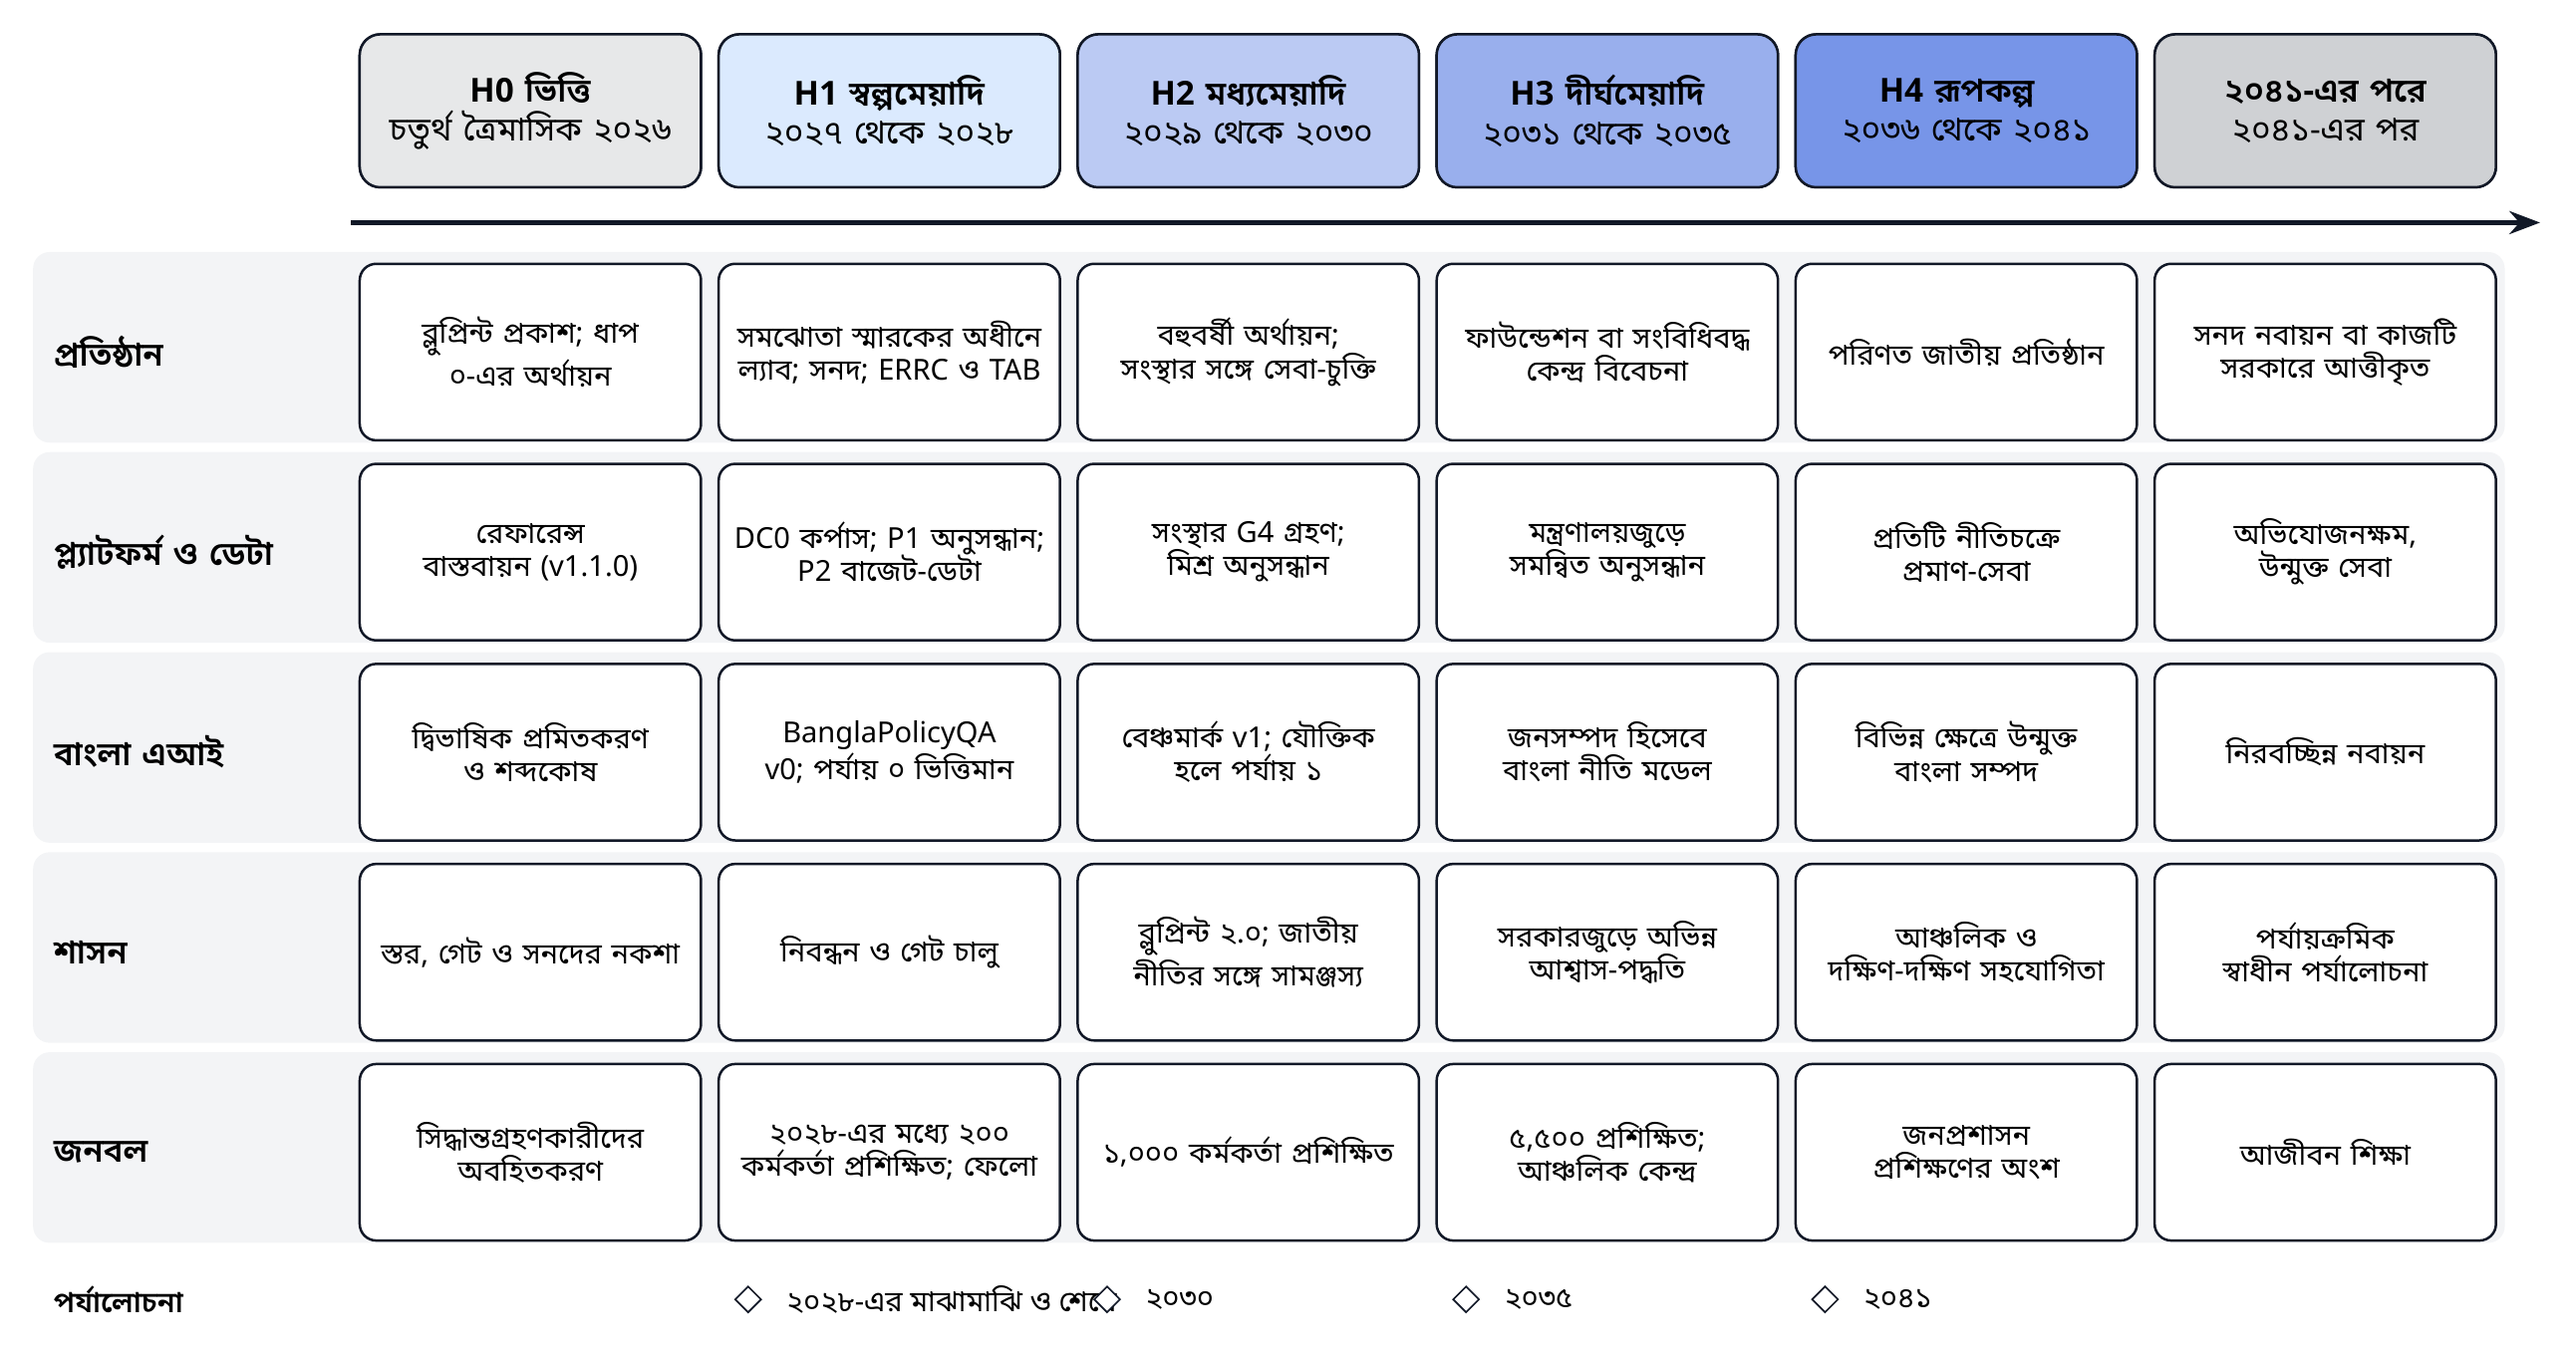
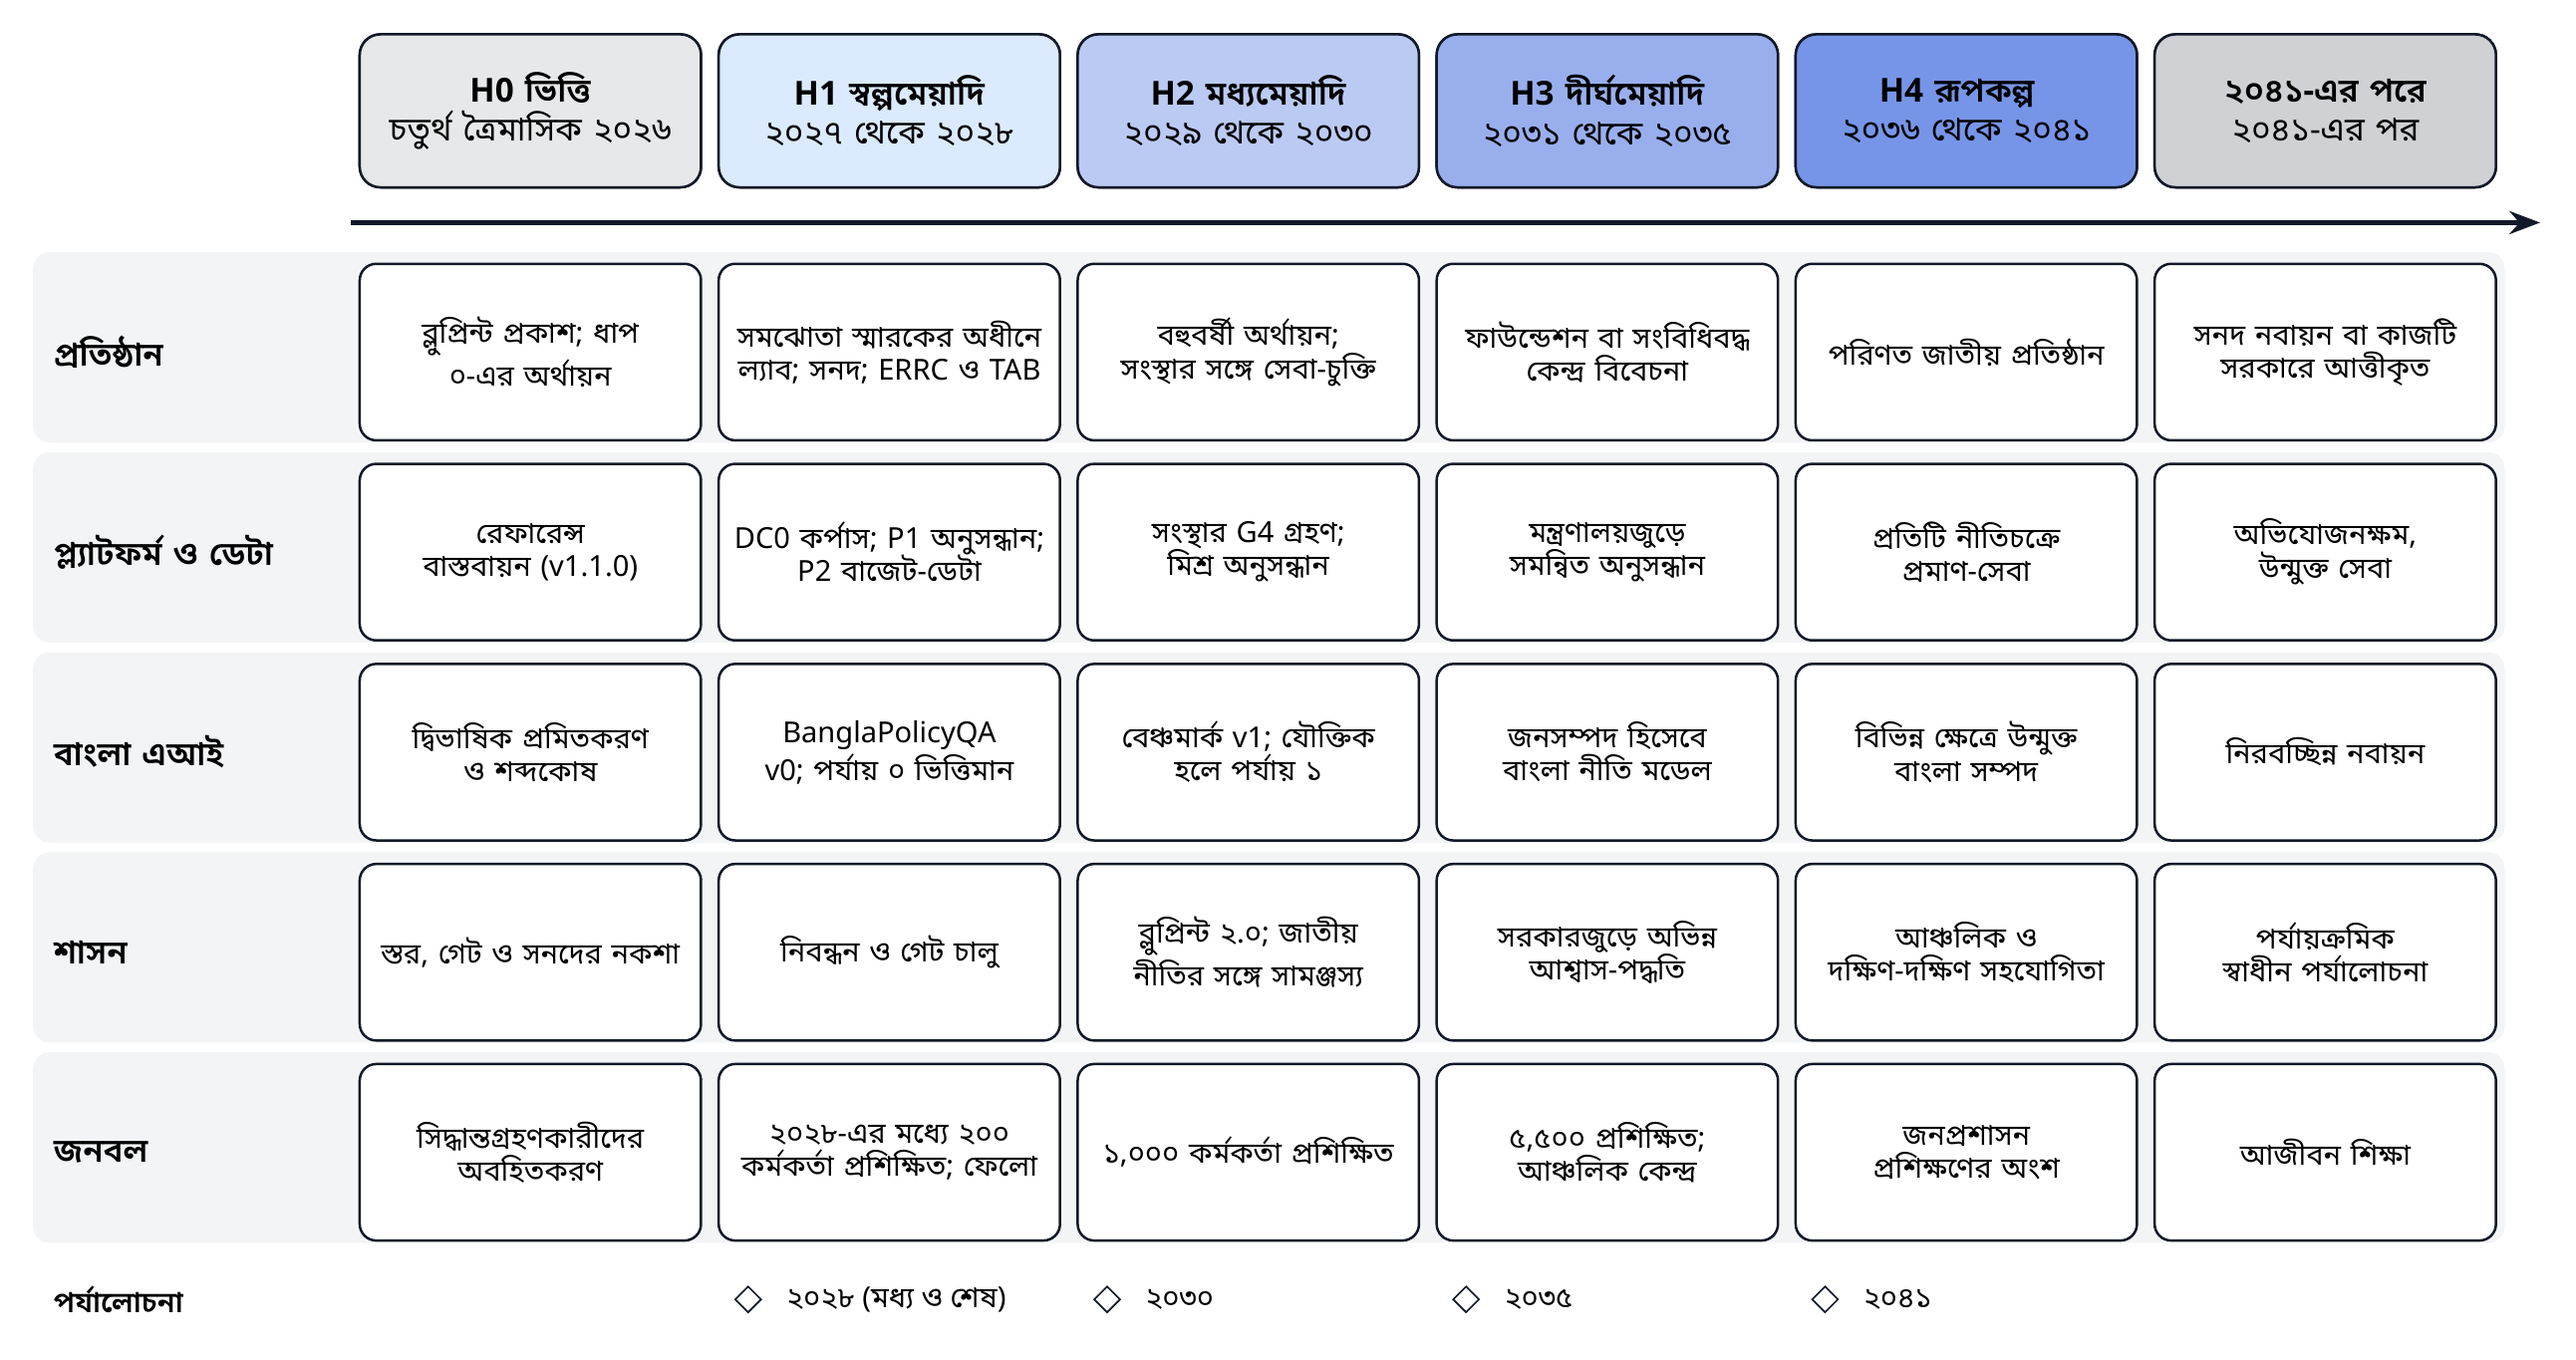
Figure 13 (Bangla): review label no longer overlaps the 2030 marker
Claude-Session: https://claude.ai/code/session_019M7SNvsuQnCqYVT4Chxcf6

diff --git a/blueprint/figures/blueprint_fig13_bn.tex b/blueprint/figures/blueprint_fig13_bn.tex
@@ -79,7 +79,7 @@
 \lane{2}{বাংলা এআই}{দ্বিভাষিক প্রমিতকরণ ও শব্দকোষ}{BanglaPolicyQA v0; পর্যায় ০ ভিত্তিমান}{বেঞ্চমার্ক v1; যৌক্তিক হলে পর্যায় ১}{জনসম্পদ হিসেবে বাংলা নীতি মডেল}{বিভিন্ন ক্ষেত্রে উন্মুক্ত বাংলা সম্পদ}{নিরবচ্ছিন্ন নবায়ন}
 \lane{3}{শাসন}{স্তর, গেট ও সনদের নকশা}{নিবন্ধন ও গেট চালু}{ব্লুপ্রিন্ট ২.০; জাতীয় নীতির সঙ্গে সামঞ্জস্য}{সরকারজুড়ে অভিন্ন আশ্বাস-পদ্ধতি}{আঞ্চলিক ও দক্ষিণ-দক্ষিণ সহযোগিতা}{পর্যায়ক্রমিক স্বাধীন পর্যালোচনা}
 \lane{4}{জনবল}{সিদ্ধান্তগ্রহণকারীদের অবহিতকরণ}{২০২৮-এর মধ্যে ২০০ কর্মকর্তা প্রশিক্ষিত; ফেলো}{১,০০০ কর্মকর্তা প্রশিক্ষিত}{৫,৫০০ প্রশিক্ষিত; আঞ্চলিক কেন্দ্র}{জনপ্রশাসন প্রশিক্ষণের অংশ}{আজীবন শিক্ষা}
-\foreach \c/\t in {1/{২০২৮-এর মাঝামাঝি ও শেষে},2/{২০৩০},3/{২০৩৫},4/{২০৪১}} {
+\foreach \c/\t in {1/{২০২৮ (মধ্য ও শেষ)},2/{২০৩০},3/{২০৩৫},4/{২০৪১}} {
   \node[draw=ink, fill=white, diamond, inner sep=1.6pt] at (\L+\c*\C+0.5*\C-12mm,-12mm-5*\R-4mm) {};
   \node[font=\scriptsize, anchor=west] at (\L+\c*\C+0.5*\C-10mm,-12mm-5*\R-4mm) {\t};
 }

diff --git a/blueprint/src/figures_new.py b/blueprint/src/figures_new.py
@@ -200,7 +200,7 @@ NEW_FIGS["13"] = {
            "e0": "সিদ্ধান্তগ্রহণকারীদের অবহিতকরণ", "e1": "২০২৮-এর মধ্যে ২০০ কর্মকর্তা প্রশিক্ষিত; ফেলো",
            "e2": "১,০০০ কর্মকর্তা প্রশিক্ষিত", "e3": "৫,৫০০ প্রশিক্ষিত; আঞ্চলিক কেন্দ্র",
            "e4": "জনপ্রশাসন প্রশিক্ষণের অংশ", "e5": "আজীবন শিক্ষা",
-           "rev": "পর্যালোচনা", "r1": "২০২৮-এর মাঝামাঝি ও শেষে", "r2": "২০৩০", "r3": "২০৩৫", "r4": "২০৪১"},
+           "rev": "পর্যালোচনা", "r1": "২০২৮ (মধ্য ও শেষ)", "r2": "২০৩০", "r3": "২০৩৫", "r4": "২০৪১"},
 }
 
 # ---------------------------------------------------------------- Figure 14: theory of change

diff --git a/blueprint/MANIFEST.md b/blueprint/MANIFEST.md
@@ -8,12 +8,12 @@ Files listed: 766.
 
 | File | Bytes | SHA-256 |
 |---|---:|---|
[12 lines of base64/hex data omitted]
 
 ## Assembled Markdown editions (6 files)
 
@@ -39,7 +39,7 @@ Files listed: 766.
[8 lines of base64/hex data omitted]
@@ -94,7 +94,7 @@ Files listed: 766.
 
 | File | Bytes | SHA-256 |
 |---|---:|---|
[5 lines of base64/hex data omitted]
@@ -191,9 +191,9 @@ Files listed: 766.
[12 lines of base64/hex data omitted]

diff --git a/blueprint/CHANGES.md b/blueprint/CHANGES.md
@@ -143,3 +143,4 @@ Full record: `review/PROJECT_AUDIT_REPORT.md` (issue register A-01 to A-36), `re
 | 9.47 | [74] Right to Information Act, 2009: Internet Archive copy of the database page added (the official site returned 503). The unofficial index’s “Repealed” label for the Act is unsupported (no repealing law named, none found) and is recorded in `docs/legal-references.md` for counsel. [42] note shortened. Page counts unchanged (147, 146, 11, 11, 1, 1) | Source reachable; status question recorded |
 | 9.48 | DOIs reserved by the author added: Technical Blueprint 10.5281/zenodo.23587901 and Blueprint Summary 10.5281/zenodo.23587919 (two records). `metadata.json` (`doi`, `summary_doi`) drives the title pages, document information, citation, Table 1 (the Summary row no longer says “same record as the Blueprint”), both Summaries (own DOI first, then the Blueprint’s) and the Decision Memo. Annex D items 1 to 3 describe the two records. README, RELEASE_NOTES, CITATION.cff (validated against CFF 1.2.0, 0 errors), CHANGELOG, `docs/`, Zenodo metadata and descriptions for both records, and a packaging script with two upload folders. Page counts unchanged | Persistent identifiers in place before release |
 | 9.49 | DOI audit. Added where missing: Figure 1 (EN/BN; the Blueprint box showed “DOI: new Zenodo record”, and the Summary box now shows its DOI), Annex V item U4 (DOIs reserved; release and records not yet published), Table 60 evidence row, PDF document properties (keywords: each publication’s own DOI), the engagement briefing notes and reviewer requests (EN/BN), the consultation plan, `docs/document-inventory.md`, `REPRODUCIBILITY.md`, `docs/publication-and-archiving.md` and the README folder note. “zenodo” is never hyphenated, so no DOI is split (“10.5281/zen-odo...” in Annex D item 2 and in U4 before). Page counts unchanged | DOIs complete and intact in all files |
+| 9.50 | Figure 13 (Bangla), review row: “২০২৮-এর মাঝামাঝি ও শেষে” ran into the 2030 marker and was cut off; shortened to “২০২৮ (মধ্য ও শেষ)”, the same meaning as the English “Mid and end 2028”. Blueprint and Summary rebuilt; page counts unchanged | Author’s report with screenshot |
